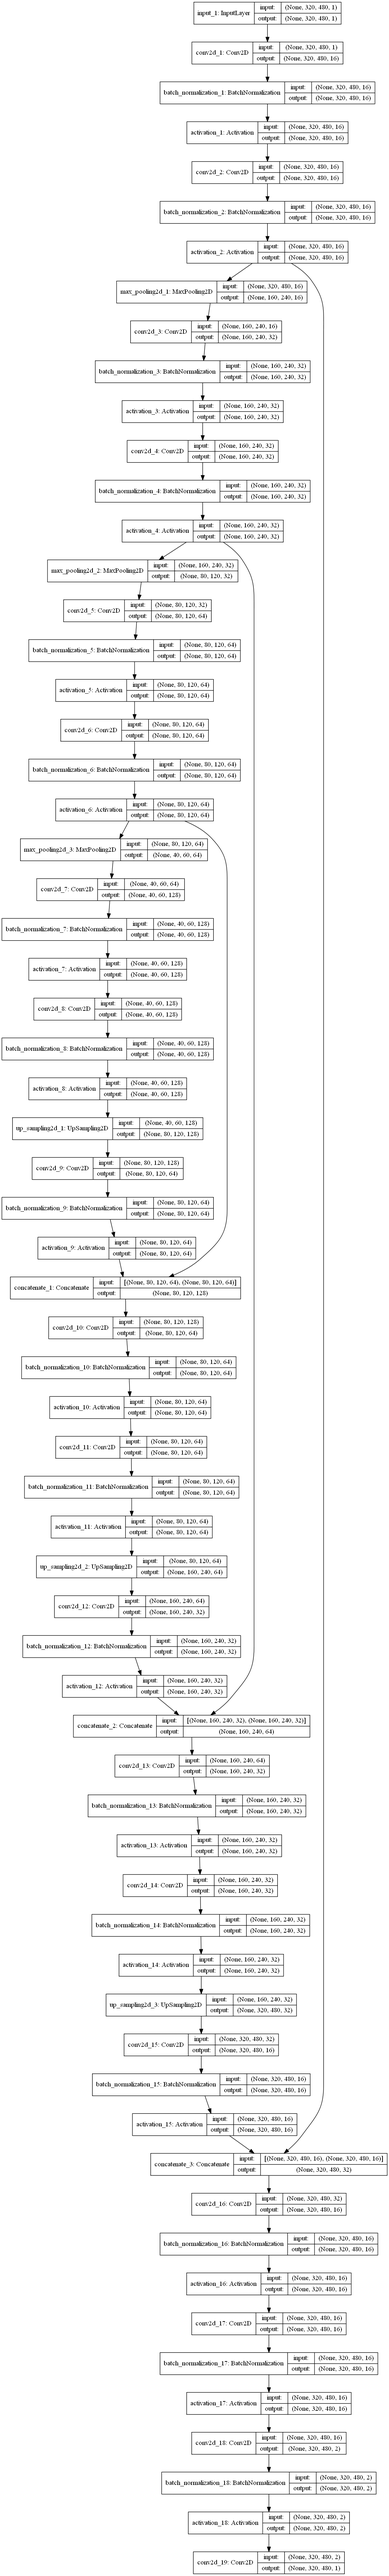
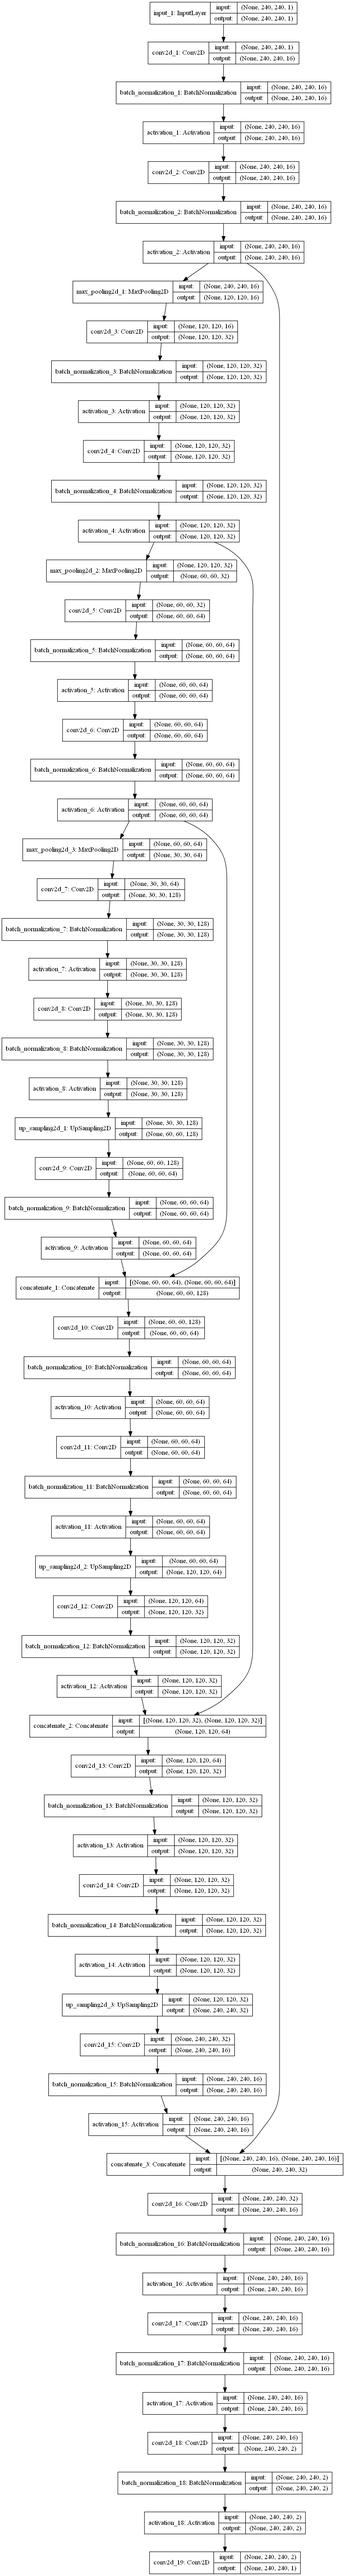
Latest code, VGG encoders

diff --git a/script/model/model.py b/script/model/model.py
@@ -136,6 +136,77 @@ def EncodingLayer(input,
 	#in next step this output needs to be activated
 	return oppositeConnection, output
 
+def EncodingLayerTripple(input,
+			kernels = 8,
+			kernel_size = 3,
+			stride = 1,
+			max_pool = True,
+			max_pool_size = 2,
+			batch_norm = True,
+			isInput = False):
+	
+	# Double convolution according to U-Net structure
+	conv = Conv2D(kernels, kernel_size = (kernel_size, kernel_size), strides = stride, padding = 'same', kernel_initializer = 'he_normal')(input)
+	# Batch-normalization on demand
+	if batch_norm == True:
+		conv = BatchNormalization()(conv)
+	conv = Activation('relu')(conv)
+	conv = Conv2D(kernels, kernel_size = (kernel_size, kernel_size), strides = 1, padding = 'same', kernel_initializer = 'he_normal')(conv)
+	if batch_norm == True:
+		conv = BatchNormalization()(conv)
+	conv = Activation('relu')(conv)
+	conv = Conv2D(kernels, kernel_size = (kernel_size, kernel_size), strides = 1, padding = 'same', kernel_initializer = 'he_normal')(conv)
+	if batch_norm == True:
+		conv = BatchNormalization()(conv)
+	conv = Activation('relu')(conv)
+	# Max-pool on demand
+	if max_pool == True:
+		oppositeConnection = conv
+		output = MaxPooling2D(pool_size=(max_pool_size, max_pool_size))(conv)
+	else:
+		oppositeConnection = conv
+		output = conv
+	#in next step this output needs to be activated
+	return oppositeConnection, output
+
+def EncodingLayerQuad(input,
+			kernels = 8,
+			kernel_size = 3,
+			stride = 1,
+			max_pool = True,
+			max_pool_size = 2,
+			batch_norm = True,
+			isInput = False):
+	
+	# Double convolution according to U-Net structure
+	conv = Conv2D(kernels, kernel_size = (kernel_size, kernel_size), strides = stride, padding = 'same', kernel_initializer = 'he_normal')(input)
+	# Batch-normalization on demand
+	if batch_norm == True:
+		conv = BatchNormalization()(conv)
+	conv = Activation('relu')(conv)
+	conv = Conv2D(kernels, kernel_size = (kernel_size, kernel_size), strides = 1, padding = 'same', kernel_initializer = 'he_normal')(conv)
+	if batch_norm == True:
+		conv = BatchNormalization()(conv)
+	conv = Activation('relu')(conv)
+	conv = Conv2D(kernels, kernel_size = (kernel_size, kernel_size), strides = 1, padding = 'same', kernel_initializer = 'he_normal')(conv)
+	if batch_norm == True:
+		conv = BatchNormalization()(conv)
+	conv = Activation('relu')(conv)
+	conv = Conv2D(kernels, kernel_size = (kernel_size, kernel_size), strides = 1, padding = 'same', kernel_initializer = 'he_normal')(conv)
+	if batch_norm == True:
+		conv = BatchNormalization()(conv)
+	conv = Activation('relu')(conv)
+	
+	# Max-pool on demand
+	if max_pool == True:
+		oppositeConnection = conv
+		output = MaxPooling2D(pool_size=(max_pool_size, max_pool_size))(conv)
+	else:
+		oppositeConnection = conv
+		output = conv
+	#in next step this output needs to be activated
+	return oppositeConnection, output
+
 def EncodingLayerResAddOp(input,
 			kernels = 8,
 			kernel_size = 3,
@@ -519,6 +590,91 @@ def AutoEncoder4(pretrained_weights = None,
 	if (pretrained_weights):
 		model.load_weights(pretrained_weights)
 	plot_model(model, to_file='AutoEncoder4.png', show_shapes=True, show_layer_names=True)
+	return model
+	
+
+#4-layer UNet VGG16
+def AutoEncoder4VGG16(pretrained_weights = None,
+				input_size = (320,480,1),
+				kernel_size = 3,
+				number_of_kernels = 32,
+				stride = 1,
+				max_pool = True,
+				max_pool_size = 2,
+				batch_norm = True,
+				loss_function = Loss.CROSSENTROPY):
+	# Input
+	inputs = Input(input_size)
+	#encoding
+	oppositeEnc0, enc0 = EncodingLayer(inputs, number_of_kernels, kernel_size,  stride, max_pool, max_pool_size, batch_norm)
+	oppositeEnc1, enc1 = EncodingLayer(enc0, number_of_kernels * 2, kernel_size, stride, max_pool, max_pool_size, batch_norm)
+	oppositeEnc2, enc2 = EncodingLayerTripple(enc1, number_of_kernels * 4, kernel_size, stride, max_pool, max_pool_size, batch_norm)
+	#bottleneck without residual (might be without batch-norm)
+	#opposite connection is equal to enc4
+	oppositeEnc3, enc3 = EncodingLayerTripple(enc2, number_of_kernels * 8, kernel_size, stride, False, max_pool_size, batch_norm)
+	#decoding
+	#Upsample rate needs to be same as downsampling! It will be equal to the stride and max_pool_size product in opposite (encoding layer)
+	dec2 = DecodingLayer(enc3, oppositeEnc2, 2, number_of_kernels * 4, kernel_size,  batch_norm)
+	dec1 = DecodingLayer(dec2, oppositeEnc1, 2, number_of_kernels * 2, kernel_size, batch_norm)
+	dec0 = DecodingLayer(dec1, oppositeEnc0, 2, number_of_kernels, kernel_size,  batch_norm)
+
+	dec0 = Conv2D(2, kernel_size = (kernel_size, kernel_size), strides = 1, padding = 'same', kernel_initializer = 'he_normal')(dec0)
+	if batch_norm == True:
+		dec0 = BatchNormalization()(dec0)
+	dec0 = Activation('relu')(dec0)
+
+	outputs = Conv2D(1, (1, 1), padding="same", activation="sigmoid", kernel_initializer = 'glorot_normal')(dec0)
+	model = Model(inputs, outputs)
+	if (loss_function == Loss.DICE):
+		model.compile(optimizer = Adam(lr = 1e-3), loss = IOU_calc_loss, metrics = [dice_loss])
+	elif (loss_function == Loss.CROSSENTROPY):
+		model.compile(optimizer = Adam(lr = 1e-3), loss = 'binary_crossentropy', metrics = ['accuracy'])
+	# Load trained weights if they are passed here
+	if (pretrained_weights):
+		model.load_weights(pretrained_weights)
+	plot_model(model, to_file='AutoEncoder4VGG16.png', show_shapes=True, show_layer_names=True)
+	return model
+	
+#4-layer UNet VGG16
+def AutoEncoder4VGG19(pretrained_weights = None,
+				input_size = (320,480,1),
+				kernel_size = 3,
+				number_of_kernels = 32,
+				stride = 1,
+				max_pool = True,
+				max_pool_size = 2,
+				batch_norm = True,
+				loss_function = Loss.CROSSENTROPY):
+	# Input
+	inputs = Input(input_size)
+	#encoding
+	oppositeEnc0, enc0 = EncodingLayer(inputs, number_of_kernels, kernel_size,  stride, max_pool, max_pool_size, batch_norm)
+	oppositeEnc1, enc1 = EncodingLayer(enc0, number_of_kernels * 2, kernel_size, stride, max_pool, max_pool_size, batch_norm)
+	oppositeEnc2, enc2 = EncodingLayerQuad(enc1, number_of_kernels * 4, kernel_size, stride, max_pool, max_pool_size, batch_norm)
+	#bottleneck without residual (might be without batch-norm)
+	#opposite connection is equal to enc4
+	oppositeEnc3, enc3 = EncodingLayerQuad(enc2, number_of_kernels * 8, kernel_size, stride, False, max_pool_size, batch_norm)
+	#decoding
+	#Upsample rate needs to be same as downsampling! It will be equal to the stride and max_pool_size product in opposite (encoding layer)
+	dec2 = DecodingLayer(enc3, oppositeEnc2, 2, number_of_kernels * 4, kernel_size,  batch_norm)
+	dec1 = DecodingLayer(dec2, oppositeEnc1, 2, number_of_kernels * 2, kernel_size, batch_norm)
+	dec0 = DecodingLayer(dec1, oppositeEnc0, 2, number_of_kernels, kernel_size,  batch_norm)
+
+	dec0 = Conv2D(2, kernel_size = (kernel_size, kernel_size), strides = 1, padding = 'same', kernel_initializer = 'he_normal')(dec0)
+	if batch_norm == True:
+		dec0 = BatchNormalization()(dec0)
+	dec0 = Activation('relu')(dec0)
+
+	outputs = Conv2D(1, (1, 1), padding="same", activation="sigmoid", kernel_initializer = 'glorot_normal')(dec0)
+	model = Model(inputs, outputs)
+	if (loss_function == Loss.DICE):
+		model.compile(optimizer = Adam(lr = 1e-3), loss = IOU_calc_loss, metrics = [dice_loss])
+	elif (loss_function == Loss.CROSSENTROPY):
+		model.compile(optimizer = Adam(lr = 1e-3), loss = 'binary_crossentropy', metrics = ['accuracy'])
+	# Load trained weights if they are passed here
+	if (pretrained_weights):
+		model.load_weights(pretrained_weights)
+	plot_model(model, to_file='AutoEncoder4VGG19.png', show_shapes=True, show_layer_names=True)
 	return model
 
 #4-layer UNet with residual connection, opposite connectio with residual connections addition

diff --git a/script/model/predict.py b/script/model/predict.py
@@ -117,14 +117,12 @@ data_gen_args = dict(rotation_range=0.0,
                     horizontal_flip=False,
                     fill_mode='nearest')
 
-configs = [
-'l4k16AutoEncoder4ResAddOpConcDecFirstExDice_0.001_1',
-'l4k16AutoEncoder4ResAddOpFirstExDice_0.001_1']
+configs = ['l4k16AutoEncoder4VGG16Dice_00.001_0']
 
 for config in configs:
     #configName = 'l5k16Dice_1'
     configName = config
-    inputDir = 'E:/RoadCracksInspection/trainingOutput/1/'+configName+'/'
+    inputDir = 'E:/RoadCracksInspection/trainingOutput/0/'+configName+'/'
     weightList = glob.glob(inputDir + '*.hdf5')
     counter = 0
     for weightPath in weightList:
@@ -132,7 +130,32 @@ for config in configs:
         fileNameWithExt = weightPath.rsplit('\\', 1)[1]
         fileName, extension = os.path.splitext(fileNameWithExt)
         kernels_list = [16,32]
+        size = (320,480,1)
         for kernels in kernels_list:
+            try:
+                model = AutoEncoder4VGG16(number_of_kernels = kernels,input_size = size, pretrained_weights = weightPath, loss_function = Loss.CROSSENTROPY)
+                break
+            except:
+                print('Not AutoEncoder4VGG16')
+
+            try:
+                model = AutoEncoder4(number_of_kernels = kernels,input_size = size, pretrained_weights = weightPath, loss_function = Loss.CROSSENTROPY)
+                break
+            except:
+                print('Not AutoEncoder4')
+            
+            try:
+                model = AutoEncoder4VGG16(number_of_kernels = kernels,input_size = size, pretrained_weights = weightPath, loss_function = Loss.CROSSENTROPY)
+                break
+            except:
+                print('Not AutoEncoder4VGG16')
+            
+            try:
+                model = AutoEncoder4ResAddOpConcDecFirstEx(number_of_kernels = kernels,input_size = size, pretrained_weights = weightPath, loss_function = Loss.CROSSENTROPY)
+                break
+            except:
+                print('Not AutoEncoder4ResAddOpConcDecFirstEx')
+
             try:
                 model = AutoEncoder4ResAddOpConcDecFirstEx(number_of_kernels = kernels, pretrained_weights = weightPath, loss_function = Loss.CROSSENTROPY)
                 break
@@ -167,10 +190,10 @@ for config in configs:
 
             
 
-        testGene = testGenerator('E:/RoadCracksInspection/datasets/Set_1/Test/Images/')
+        testGene = testGenerator('E:/RoadCracksInspection/datasets/Set_0/Test/Images/', target_size = (320,480))
         results = model.predict_generator(testGene,35,verbose=1)
                 
-        predictionOutputDir = 'E:/RoadCracksInspection/trainingOutput/1/'+configName+'/prediction/' + str(counter) + '/'
+        predictionOutputDir = 'E:/RoadCracksInspection/trainingOutput/0/'+configName+'/prediction/' + str(counter) + '/'
         if not os.path.exists(predictionOutputDir):
             os.makedirs(predictionOutputDir)
         saveResult(predictionOutputDir,results)

diff --git a/script/model/main.py b/script/model/main.py
@@ -110,17 +110,18 @@ data_gen_args = dict(rotation_range=0.0,
 
 learningRate = 0.001
 kernels = 16
-setNumber = 1
+setNumber = 0
 
 
-outputDir = 'E:/RoadCracksInspection/trainingOutput80-20_Smaller/' + str(setNumber) + '/l4k' + str(kernels) + 'AutoEncoder4Dice_0' + str(learningRate) + '_' + str(setNumber) +'/'
+outputDir = 'E:/RoadCracksInspection/trainingOutput/' + str(setNumber) + '/l4k' + str(kernels) + 'AutoEncoder4VGG16Dice_0' + str(learningRate) + '_' + str(setNumber) +'/'
 if not os.path.exists(outputDir):
     print('Output directory doesnt exist!\n')
     print('It will be created!\n')
     os.makedirs(outputDir)
-generator = trainGenerator(2,'E:/RoadCracksInspection/datasets80-20/Set_' + str(setNumber) + '/Train/Smaller/','Images','Labels',data_gen_args,save_to_dir = None)
-model = AutoEncoder4(number_of_kernels=kernels, loss_function = Loss.DICE)
-outputPath = outputDir + "AutoEncoder4Dice-{epoch:03d}-{loss:.4f}.hdf5"
+generator = trainGenerator(2,'E:/RoadCracksInspection/datasets/Set_' + str(setNumber) + '/Train/AUGM/','Images','Labels',data_gen_args,save_to_dir = None, target_size = (320,480))
+model = AutoEncoder4VGG16(number_of_kernels=kernels,input_size = (320,480,1), loss_function = Loss.DICE)
+outputPath = outputDir + "AutoEncoder4VGG16Dice-{epoch:03d}-{loss:.4f}.hdf5"
 model_checkpoint = ModelCheckpoint(outputPath, monitor='loss',verbose=1, save_best_only=False, save_weights_only=False)
-model.fit_generator(generator,steps_per_epoch=212,epochs=50,callbacks=[model_checkpoint])
+model.fit_generator(generator,steps_per_epoch=164,epochs=50,callbacks=[model_checkpoint])
 keras.backend.clear_session()
+

diff --git a/script/processing/DataPreparation/crop2Tiles.py b/script/processing/DataPreparation/crop2Tiles.py
@@ -48,12 +48,12 @@ def cropImageFromRegion(image, roi):
 
 def main():
 
-    for setIndex in range(0,5):
-        inputDir = 'E:/RoadCracksInspection/datasets80-20/Set_' + str(setIndex) + '/Train/'
+    for setIndex in range(1,2):
+        inputDir = 'E:/RoadCracksInspection/datasets80-20/Set_' + str(setIndex) + '/Test/'
         imageDir = inputDir + 'Images/'
         labelDir = inputDir + 'Labels/'
 
-        ouputDir = 'E:/RoadCracksInspection/datasets80-20/Set_' + str(setIndex) + '/Train/Smaller/'
+        ouputDir = 'E:/RoadCracksInspection/datasets80-20/Set_' + str(setIndex) + '/Test/Smaller/'
         outputImageDir = ouputDir + 'Images/'
         outputLabelDir = ouputDir + 'Labels/'
 
@@ -99,7 +99,7 @@ def main():
                 croppedImage = cropImageFromRegion(image, region)
                 croppedLabel = cropImageFromRegion(label, region)
 
-                augment = True
+                augment = False
                 if not augment:
                     #original
                     frontName = str(random.randint(0,1000)) + '_'

diff --git a/script/processing/DataAnalysis/analyzeAll.py b/script/processing/DataAnalysis/analyzeAll.py
@@ -23,7 +23,7 @@ def GetFileName(path):
 
 def AnalyzeArchitecture():
     #do analysis for every class
-    trainings = 'E:/RoadCracksInspection/trainingOutput/1/'
+    trainings = 'E:/RoadCracksInspection/trainingOutput80-20_Smaller/1/'
     allScores = open(trainings + 'allScores.txt','w')
 
     inputDirs = glob.glob(trainings + '*/')
@@ -68,8 +68,8 @@ def AnalyzeArchitecture():
                     os.makedirs(imageOutputDirectory)
             
                 """
-            imagePath = 'E:/RoadCracksInspection/datasets/Set_1/Test/Images/'
-            labelsPath = 'E:/RoadCracksInspection/datasets/Set_1/Test/Labels/'
+            imagePath = 'E:/RoadCracksInspection/datasets80-20/Set_1/Test/Smaller/Images/'
+            labelsPath = 'E:/RoadCracksInspection/datasets80-20/Set_1/Test/Smaller/Labels/'
             images = glob.glob(imagePath + '*.bmp')
             labels = glob.glob(labelsPath + '*.bmp')  
             predictions = glob.glob(inputPredictionSubDir + '*.bmp')      
